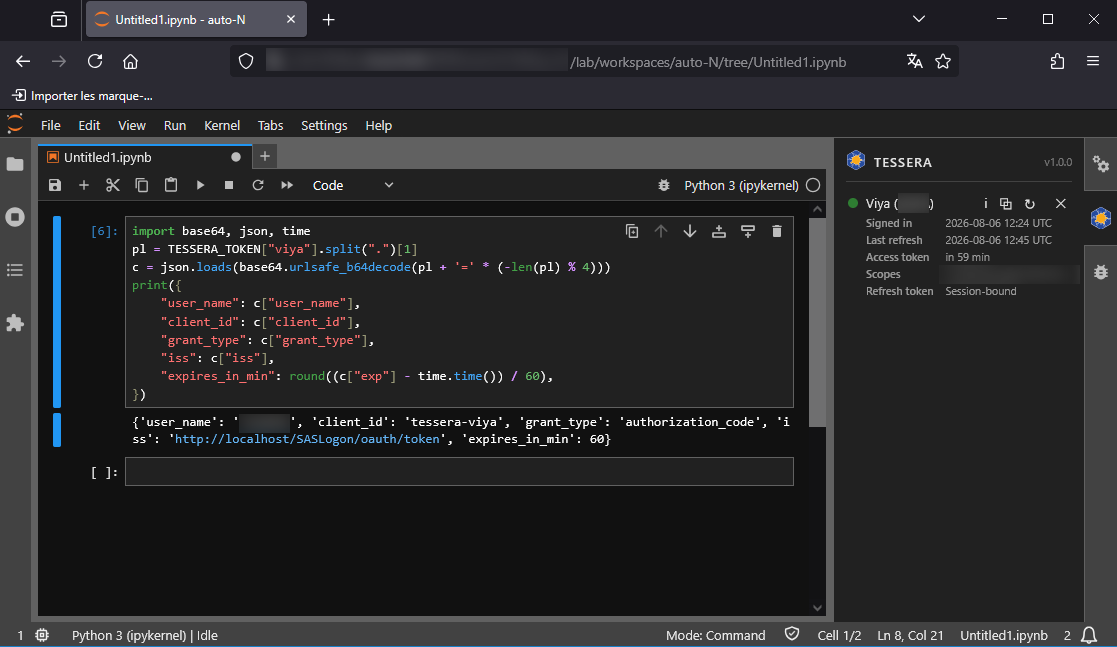
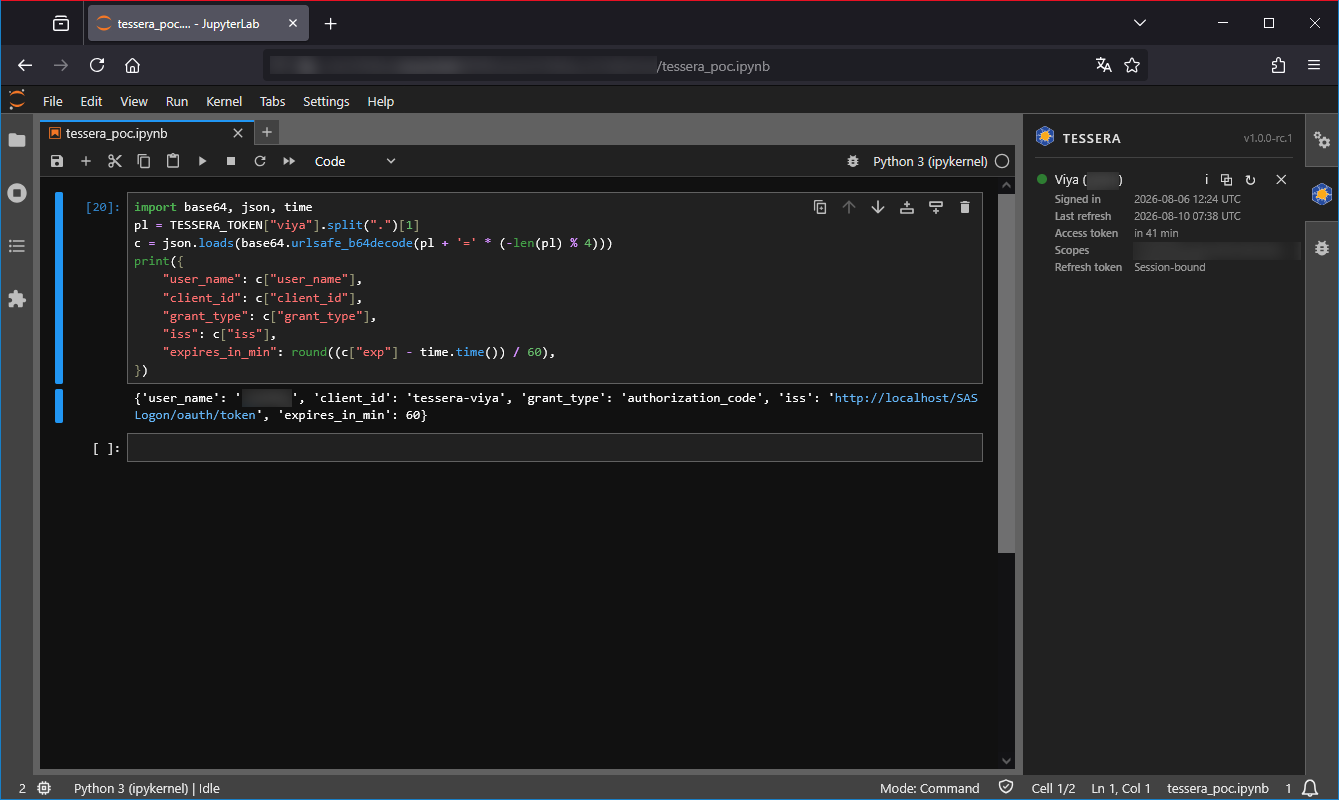
chore: tessera v1.0.0 - promote the release candidate to the final version
Changed:
  - version raised from 1.0.0rc1 to 1.0.0 across its four declared sources:
    meta.py as the source, package.json, frontend/src/version.ts, and the
    two root entries of package-lock.json
  - Development Status classifier raised from Alpha to Production/Stable,
    since 1.0.0 is itself the statement of a stable API; declared the system
    administrator audience, the POSIX platform, and the authentication topic
  - CHANGELOG: the accumulated entries become the dated [1.0.0] section

Added:
  - README: the CI and documentation badges, and a caption on the panel
    capture stating what the screen proves, a sign-in held over four days
    with every expired access token renewed from the stored refresh token,
    on demand

Removed:
  - the Scorecard workflow: its aggregate score is not representative for a
    project this young, and the badge is not displayed

Tests:
  - Python: 437 passed, coverage 100%
  - TypeScript: 101 passed, coverage 100% statements, 99.22% branches
  - the built extension differs from the release-candidate build only by the
    version literal

diff --git a/frontend/src/version.ts b/frontend/src/version.ts
@@ -8,4 +8,4 @@
  * the release checklist, so the displayed value also diagnoses the
  * service: a mismatch on the bench means a stale installed wheel.
  */
-export const PANEL_VERSION = '1.0.0-rc.1';
+export const PANEL_VERSION = '1.0.0';

diff --git a/src/tessera/meta.py b/src/tessera/meta.py
@@ -12,7 +12,7 @@ __app_name__ = "tessera"
 # imports as ``tessera`` but ships as ``jupyterhub-tessera`` on PyPI. Use
 # ``__dist_name__`` for installed-metadata lookups (importlib.metadata).
 __dist_name__ = "jupyterhub-tessera"
-__version__ = "1.0.0rc1"
+__version__ = "1.0.0"
 __description__ = (
     "JupyterHub/JupyterLab plugin to acquire and securely store OAuth2/OIDC "
     "tokens, with a per-server status button."

diff --git a/README.md b/README.md
@@ -7,6 +7,8 @@
 </p>
 
 <p align="center">
+  <a href="https://github.com/KaminoU/jupyterhub-tessera/actions/workflows/ci.yml"><img src="https://github.com/KaminoU/jupyterhub-tessera/actions/workflows/ci.yml/badge.svg?branch=main" alt="CI"></a>
+  <a href="https://jupyterhub-tessera.readthedocs.io/"><img src="https://img.shields.io/badge/docs-RTD-blue" alt="Documentation"></a>
   <a href="https://pypi.org/project/jupyterhub-tessera/"><img src="https://img.shields.io/pypi/v/jupyterhub-tessera?color=blue" alt="PyPI"></a>
   <img src="https://img.shields.io/badge/python-≥3.10-blue" alt="Python">
   <a href="https://github.com/KaminoU/jupyterhub-tessera/blob/main/LICENSE"><img src="https://img.shields.io/badge/license-MIT-green" alt="License"></a>
@@ -29,6 +31,12 @@ tessera is generic: any OAuth2/OIDC provider is a configuration entry.
 
 <p align="center">
   <img src="https://raw.githubusercontent.com/KaminoU/jupyterhub-tessera/main/assets/poc-viya.png" alt="The tessera panel in JupyterLab: one button per declared server, green when a valid refresh token is stored, with token details on demand" width="720">
+</p>
+
+<p align="center">
+  <em>Signed in on 6 August, still green on 10 August: the access token expired
+  several times in between, and each one was renewed from the stored refresh
+  token, on demand.</em>
 </p>
 
 ## How it works

diff --git a/CHANGELOG.md b/CHANGELOG.md
@@ -8,6 +8,8 @@ and this project adheres to
 
 ## [Unreleased]
 
+## [1.0.0] - 2026-08-10
+
 ### Added
 
 - Service observability: a greppable `[TESSERA ...]` log format on the
@@ -69,4 +71,5 @@ and this project adheres to
   per credential and wired in the bench configuration; the panel points
   at the right directive when the grant is missing.
 
-[Unreleased]: https://github.com/KaminoU/jupyterhub-tessera/commits/main
+[Unreleased]: https://github.com/KaminoU/jupyterhub-tessera/compare/v1.0.0...HEAD
+[1.0.0]: https://github.com/KaminoU/jupyterhub-tessera/releases/tag/v1.0.0
